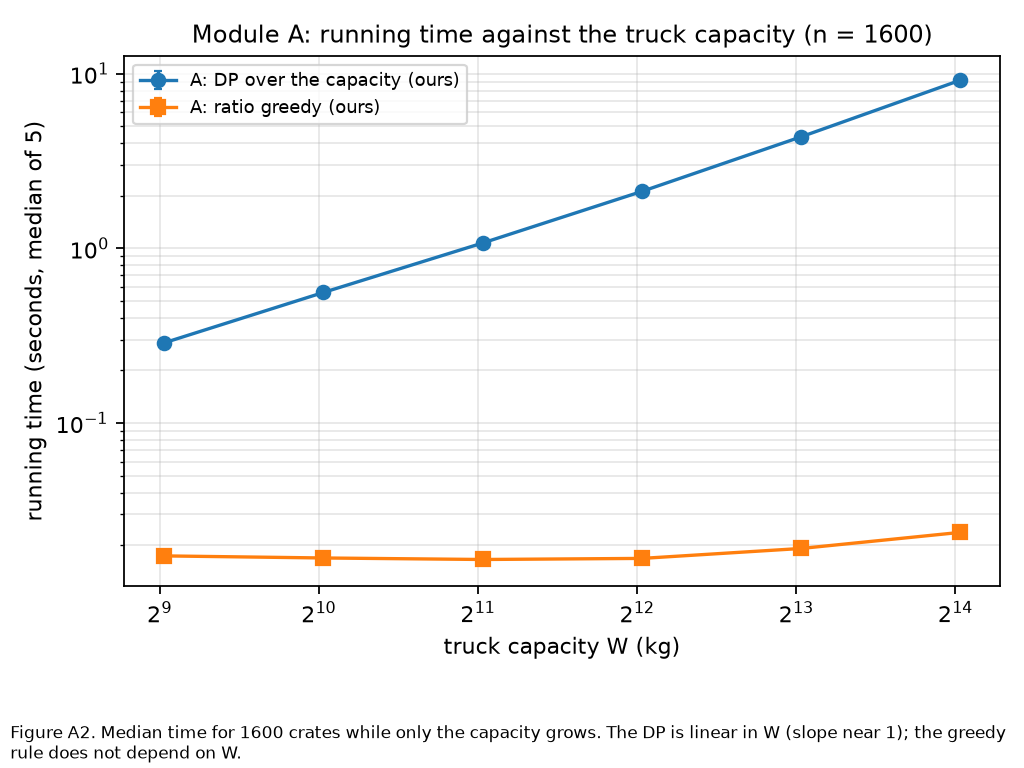
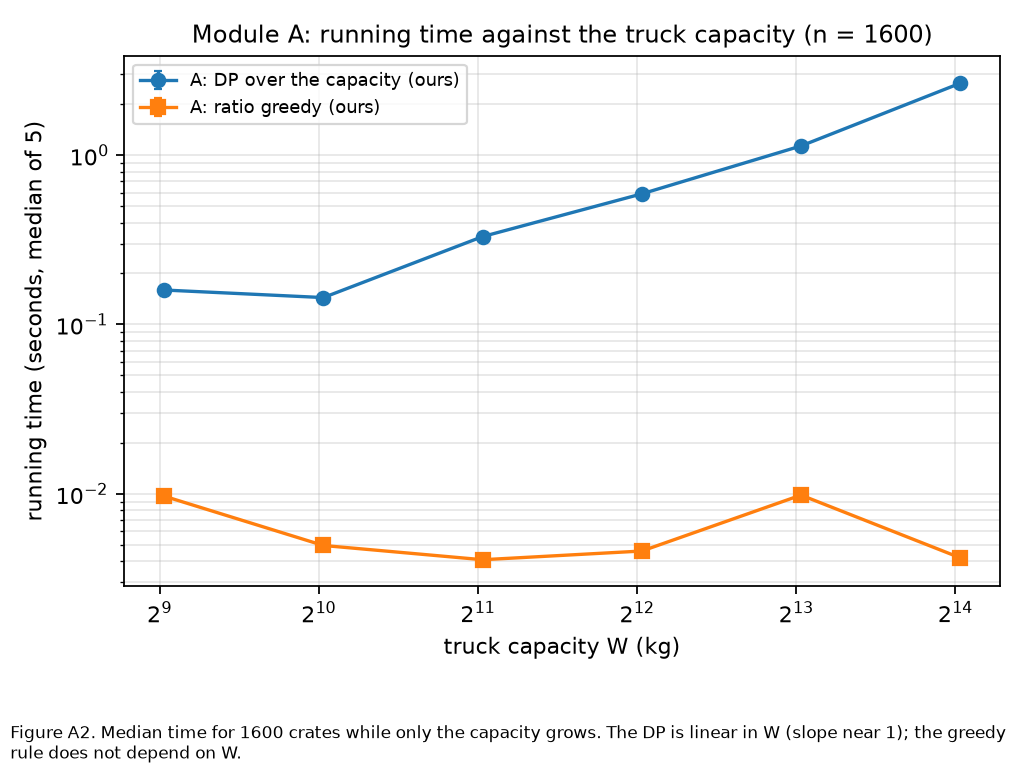
ayna: final updates

diff --git a/prediction_log.md b/prediction_log.md
@@ -76,17 +76,17 @@ DP fills n x W cells. The DP wins on *value*: it is optimal, the greedy rule is 
 
 **After the run** (Ayna's laptop, on or before 2026-11-20; full table in `results/predictions-vs-measurements-AD.md`): 10 of 13 inside the tolerance, misses 1.1, 1.2 and 1.3.
 
-*A problem with the measurement itself, stated first.* The speed of the machine changed while round 1 was running. Time per DP cell: 200 ns (n = 200), 181, 145, 139 (n = 1600), then 253 (n = 3200, where the IQR is 8.8 s, 80 % of the median, so the speed changed during the 5 timed runs) and 398 ns (n = 6400);
-in the W sweep, which ran afterwards on the same 1600 crates, 317 to 350 ns per cell. The greedy rule on the same 1600 crates took 7.6 ms in `A-scale-n` and 17 to 24 ms in `A-scale-W`. The operation counts are exact and did not change, so they are the reliable part of this round.
-I did not establish the cause. Possible causes: laptop power or heat management, other programs running, or Windows moving the run between fast and slow cores of this hybrid Intel CPU. A repeat with the charger connected and the power mode on best performance would tell.
-- **1.1 (miss, slope 2.26 +- 0.36, limit 2.25).** The interval contains my 2.0, so this is a borderline miss. Two causes: W per crate is not constant (3.4, 3.4, 2.9, 4.2, 4.2, 3.9 kg per crate for the six sizes, because the joined tier L cases differ), so the counted cells have slope 2.08 +- 0.12, not 2.0;
-  and the drift above added to the time of the large sizes. Time against cells has slope 1.09 +- 0.16, so the counted operations still explain the time.
-- **1.2 (miss, greedy slope 1.44, range 0.9 to 1.3).** The greedy operations have slope 1.150 +- 0.016, as predicted. The times at n = 3200 (45 ms) and n = 6400 (93 ms) are 6 and 12 times the time at n = 1600 while the operations are 2.2 and 4.8 times larger: the same drift.
-- **1.3 (miss, 64.2 s against 14 s).** I took 100 ns per cell from a smoke run on a cloud machine, where the full round later gave 19.0 s. Here a cell cost 398 ns at n = 6400 (139 ns at n = 1600), and the cell count was 161 million, not my 140 million.
-  The lesson: a time constant measured on one machine does not carry over to another; the cell count (a prediction I made about counts) was close.
-- **1.4 (hit, 689 against 450).** A hit with a wide tolerance; I would not read much into it.
-- **1.5, 1.6, 1.7, 1.8, 1.9** hit. 1.8: DP slope in W is 0.995 +- 0.037, clean because the W sweep ran at an almost constant speed. 1.7: greedy memory is 102 bytes per crate against 80 predicted (I counted too few lists of n references; not profiled further).
-  1.9 is a hit only because of the tolerance: the greedy time has slope 0.08 with R^2 = 0.57 (the operation count is exactly constant), which says "no clear dependence on W" and nothing more.
+*What changed between the two runs.* In the first run on this laptop the speed changed while the round was running: time per DP cell was 200, 181, 145, 139 ns for n = 200 to 1600, then 253 ns and 398 ns, with an IQR of 80 % of the median at n = 3200, so 1.1, 1.2 and 1.3 all missed.
+I did not establish the cause (laptop power or heat management, other programs, or Windows moving the run between fast and slow cores of this hybrid Intel CPU). After connecting the charger and setting the power mode to best performance, the repeat gave 94.5, 88.8, 86.6, 83.3 and 83.8 ns per cell for n = 200 to 3200: the speed is now almost constant.
+That is evidence for a power or heat effect, not proof; I changed two things at once (charger and power mode) and did not test them separately. One point is still disturbed: n = 6400 cost 194 ns per cell with an IQR of 8.8 s (28 % of the median), so the speed changed again during that longest run. In the W sweep the first point (W = 522, right after the 6400 run) cost 195 ns per cell, the other five 85 to 99 ns.
+The operation counts are exact and identical in both runs.
+- **1.1 (hit now, slope 2.215 +- 0.284, range 1.75 to 2.25; first run 2.26 +- 0.36).** The slope is inflated by the 6400 point. Without it, the five sizes 200 to 3200 give 2.05 +- 0.21. The counted cells have slope 2.08 +- 0.12, not 2.0, because W per crate is not constant (3.4, 3.4, 2.9, 4.2, 4.2, 3.9 kg per crate for the six sizes, since the joined tier L cases differ): a real, small modelling error in my prediction of the operation count. Time against cells has slope 1.07 +- 0.14, so the counted operations explain the time.
+- **1.2 (hit now, greedy slope 1.219, range 0.9 to 1.3; first run 1.44).** The greedy operations have slope 1.150 +- 0.016, as predicted. The interval of the time slope is +- 0.28, so this is a weak confirmation.
+- **1.3 (still a miss, 31.3 s against 14 s, range 9 to 21).** The cell count was 161 million, not my 140 million. Only the 6400 point is out of line: at the 84 ns per cell of n = 1600 and 3200, 161 million cells would take about 13.5 s, which is what I predicted. That is arithmetic, not a measurement; the measured value is 31.3 s and it stays a miss.
+  The lesson: a long run on a laptop can change speed in the middle, and one timing of a 30 s run is not enough to separate this from the algorithm. In the first run I also used a constant (100 ns per cell) from a cloud machine; on this laptop in the good state it is 85 ns, close.
+- **1.4 (hit, 778 against 450).** A hit with a wide tolerance; I would not read much into it.
+- **1.5, 1.6, 1.7, 1.8, 1.9** hit. 1.8: DP slope in W is 0.858 +- 0.267 (first run 0.995 +- 0.037); the cells have slope 1.005, and the lower time slope comes from the first point (W = 522, 195 ns per cell), which is out of line. 1.7: greedy memory is 102 bytes per crate against 80 predicted (I counted too few lists of n references; not profiled further).
+  1.9 is a hit only because of the tolerance: the greedy time has slope -0.08 +- 0.43 with R^2 = 0.07 (the operation count is exactly constant; the times jump between 4 and 10 ms), which says "no clear dependence on W" and nothing more.
 - **1.10 to 1.13 (quality, machine independent, identical to the first run on the cloud machine):** greedy is not optimal in 65 % of tier S cases (55 % predicted), mean greedy/DP is 0.9985 on tiers M and L, 0.561 on trap 47, and the DP equals the claim in 20 of 20 tier S cases.
   A surprise: a few tier S cases of other groups give greedy/DP of only 0.58, nearly as bad as the trap cases (Figure A4).
 
@@ -115,8 +115,8 @@ DP costs a fixed overhead per crate (list slicing) and the table has only about 
 multiple of the sort-based greedy rule (2.3). For n = 8 both finish in tens of microseconds and the exponential
 has not taken off yet, so the crossover sits at the bottom of the range (2.4).
 
-**After the run** (Ayna's laptop): 3 of 4 inside the tolerance, miss 2.2.
-- **2.2 (miss).** Brute force at n = 20 took 0.585 s against 0.17 s predicted; the first run on the cloud machine gave 0.165 s. The factor 3.6 is a machine and speed-state difference, not an error in the 2^n argument: 2.1 hit (base 2.02, interval 1.94 to 2.11) and exactly 2^n subsets were counted at every size.
+**After the run** (Ayna's laptop, first slower run; round 2 has not been repeated yet): 3 of 4 inside the tolerance, miss 2.2.
+- **2.2 (miss).** Brute force at n = 20 took 0.585 s against 0.17 s predicted; the first run on the cloud machine gave 0.165 s. The factor 3.6 is a machine and speed-state difference, not an error in the 2^n argument (in this round the DP costs about 500 ns per cell, against about 85 ns in the repeated round 1, so the round ran in the slow state): 2.1 hit (base 2.02, interval 1.94 to 2.11) and exactly 2^n subsets were counted at every size.
 - 2.3 hit (DP / greedy 3.9 on average). 2.4 hit (n = 8: DP 89 us, brute force 115 us, ratio 1.29); this prediction was partly informed by the smoke run and I did not test sizes below 8.
 - At n = 20 the DP is 878 times faster than brute force.
 
@@ -165,13 +165,13 @@ about equal. They give the same release order, so there is no difference in *out
 - At m = 250 the backlog is under 50 and a scan of 40 entries costs about as much as the overhead of heap
   operations (3.6).
 
-**After the run** (Ayna's laptop): 9 of 11 inside the tolerance, misses 3.5 and 3.8.
+**After the run** (Ayna's laptop, repeated on 2026-11-20 with the charger connected and power mode best performance): 10 of 11 inside the tolerance, miss 3.8.
 - **3.8 (miss, 1.28 against a limit of 1.25).** Operation counts do not depend on the machine, so this is a real modelling error. I predicted that operations divided by (m log2 m) stay constant. They grow from 2.47 at m = 250 to 3.17 at m = 64000.
   My model forgot that the backlog starts at zero and then grows. A pop costs about log2 of the current backlog, so the average over the run is about log2(0.33 m) - 1.4 = log2 m - 3.0 rather than log2 m. The ratio (log2 m - 3.0) / log2 m is 0.62 at m = 250 and 0.81 at m = 64000, a growth by a factor of 1.31; measured 1.28. So the heap is m log m with a negative constant term.
-- **3.5 (miss, heap at m = 64000 took 1.04 s against 0.5 s).** The first run on the cloud machine gave 0.40 s. On the laptop the heap time jumps from 0.108 s (m = 16000) to 0.481 s (m = 32000), 4.5 times for twice the size while the operations grow 2.1 times: the speed change again. As a result the scan/heap time ratio is 1.5, 1.6, 3.0, 4.8, 9.5, 17, 63, 57, 50 for the nine sizes and is not monotone at the top; do not read the 63 as a trend.
-- **3.1 (hit but inflated).** The heap slope is 1.26 +- 0.11 (limit 1.3); the operations have slope 1.164 +- 0.028, which is the m log m shape I expected. **3.2:** scan slope 2.03 +- 0.16, comparisons 1.99. **3.3:** 10.7 million comparisons at m = 8000 (10.9 predicted).
-- **3.4 (hit, 51.9 s against 51).** A lucky hit: my 70 ns per comparison came from the smoke run, here a comparison cost 76 ns, and the first cloud run gave 51 ns. The IQR of the scan at m = 32000 is 12.4 s (45 % of the median).
-- 3.6 hit (1.5), 3.7 hit (backlog 0.331 m), 3.9 hit (185 bytes per alarm; heap and scan memory differ by under 0.1 %), 3.10 hit (the mean wait of all alarms is identical under both orders in all 62 cases), 3.11 hit with a 81 % error (ratio 429 against 80 predicted; on tier L the priority 9 and 10 alarms wait 1.5 ticks under the urgency order and 639 under first-come-first-served).
+- **3.5 (hit now, heap at m = 64000 took 0.265 s, range 0.25 to 1; first run 1.04 s).** In the first run the heap time jumped 4.5 times for a doubling of m (speed change). In the repeat the heap times are smooth except at m = 4000 (24 ms, with an IQR of 6.5 ms; m = 8000 took 25 ms), which I read as one disturbed measurement, not as algorithm behaviour. The scan/heap time ratio for the nine sizes is 1.2, 1.7, 2.7, 4.7, 4.1, 16, 29, 57, 113; the dip at 4000 comes from that heap time. The ratio grows with m, as the shapes m log m and m^2 predict.
+- **3.1 (hit).** The heap slope is 1.124 +- 0.112 (first run 1.26); the operations have slope 1.164 +- 0.028, which is the m log m shape I expected. **3.2:** scan slope 1.961 +- 0.054, comparisons 1.99. **3.3:** 10.7 million comparisons at m = 8000 (10.9 predicted).
+- **3.4 (hit, 29.8 s against 51, range 25 to 100).** A hit by tolerance, with a relative error of 71 %: I used 70 ns per comparison, and the repeated round gives 37 to 44 ns (the first laptop run gave 76 ns, the first cloud run 51 ns). The scan times now follow the comparison counts closely (time against operations has slope 0.985 +- 0.025).
+- 3.6 hit (1.17), 3.7 hit (backlog 0.331 m), 3.9 hit (185 bytes per alarm; heap and scan memory differ by under 0.1 %), 3.10 hit (the mean wait of all alarms is identical under both orders in all 62 cases), 3.11 hit with a 81 % error (ratio 429 against 80 predicted; on tier L the priority 9 and 10 alarms wait 1.5 ticks under the urgency order and 639 under first-come-first-served).
 
 ---
 
@@ -192,18 +192,20 @@ about equal. They give the same release order, so there is no difference in *out
 **Reasoning.** Quadratic growth from 51 s at m = 64000 gives 51 x 16 = 816 s at 4 times the size; with the slope a bit below 2, 670 s
 (4.2). That is above 300 s, hence DNF (4.1). The heap is about 5 times 0.5 s with the logarithmic factor (4.3).
 
-**After the run** (Ayna's laptop): 2 of 3 inside the tolerance, miss 4.2.
-- 4.1 hit: the scan at m = 256000 passed 300 s and is recorded as DNF. 4.3 hit: the heap took 2.40 s (2.5 predicted).
-- **4.2 (miss, extrapolated 1189 s against 670 s).** The extrapolation uses the fitted line through nine sizes including the disturbed ones; plain quadratic growth from the last measured size (51.9 s at m = 64000, times 16) gives about 830 s. Both are far above 300 s, so the DNF conclusion does not depend on it.
+**After the run** (Ayna's laptop; round 4 has not been repeated yet and comes from the first, slower run, except that the extrapolation in 4.2 now uses the repeated round 3): 2 of 3 inside the tolerance, miss 4.2.
+- 4.1 hit: the scan at m = 256000 passed 300 s and is recorded as DNF. 4.3 hit: the heap took 2.40 s (2.5 predicted). Caution: this number comes from the slower run. The repeated round 3 gives 0.265 s at m = 64000, and 2.40 s at 256000 alarms would be 9 times that for 4 times the alarms, so a repeat of round 4 is likely to give about 1.2 s and change this hit into a miss.
+- **4.2 (miss, extrapolated 390 s against 670 s, range 400 to 1100).** The fitted line through the nine sizes of the repeated round 3 gives 390 s; plain quadratic growth from the last measured size (29.8 s at m = 64000, times 16) gives about 477 s. The miss is small (the range starts at 400) and comes from my constant (70 ns per comparison, measured here: about 40 ns). Both estimates are above 300 s, so the DNF conclusion holds, but it is close enough that it should be confirmed by the repeated round 4 (the DNF row itself is a measurement: the scan passed 300 s).
   The largest size that finished for the scan is m = 64000. The extrapolated figure is an estimate, not a measurement.
 
 ---
 
 ## Summary after all rounds
 
-31 numerical predictions on the laptop run: 24 inside the tolerance, 7 misses (1.1, 1.2, 1.3, 2.2, 3.5, 3.8, 4.2).
-- **Real modelling errors:** 3.8 (I forgot that the backlog starts at zero, so the heap work per alarm is log2 m - 3, not log2 m) and, in part, 1.1 (the capacity per crate of the pools is not constant, so the cell count grows with slope 2.08, not 2.0).
-- **Caused by speed and constants of the machine:** 1.2, 1.3, 2.2, 3.5 and 4.2. The speed of the laptop changed during round 1 and again in round 3 (time per DP cell 139 ns to 398 ns, heap time jumping 4.5 times for a doubling), and the time constants I used (100 ns per cell, 4 microseconds per alarm) came from a cloud machine. Predictions of counts, memory and quality
-  (1.5, 1.6, 1.8, 2.1, 3.3, 3.7, 3.10, 1.10 to 1.13) were close or exact on both machines.
-- **Weak hits:** some tolerances (1.4, 1.9, 3.4, 3.11) were wide enough to hit without much understanding; 3.4 is luck.
-- **What I would do differently:** predict ratios and operation counts, and calibrate any absolute time on the same machine and in the same power mode before predicting it; run timing rounds with the laptop connected to power.
+31 numerical predictions, with rounds 1 and 3 repeated on 2026-11-20 (charger connected, best performance) and rounds 2 and 4 from the first laptop run: 27 inside the tolerance, 4 misses (1.3, 2.2, 3.8, 4.2).
+In the first laptop run alone it was 24 hits and 7 misses (1.1, 1.2, 1.3, 2.2, 3.5, 3.8, 4.2).
+- **Real modelling errors:** 3.8 (I forgot that the backlog starts at zero, so the heap work per alarm is log2 m - 3, not log2 m) and, in a small way, 1.1 (the capacity per crate of the pools is not constant, so the cell count grows with slope 2.08, not 2.0; the hit there is by tolerance).
+- **Caused by speed and constants of the machine:** 1.3 (the n = 6400 run changed speed during the run), 2.2 (round 2 ran in the slow state), 4.2 (my 70 ns per comparison against about 40 ns measured). Moving from the first to the repeated run turned 1.1, 1.2 and 3.5 into hits, which supports the explanation by machine speed. Predictions of counts, memory and quality
+  (1.5, 1.6, 2.1, 3.3, 3.7, 3.10, 1.10 to 1.13) were close or exact in every run on both machines.
+- **Weak hits:** some tolerances (1.4, 1.9, 3.4, 3.11) were wide enough to hit without much understanding; 3.4 is a hit with a relative error of 71 %.
+- **Still open:** rounds 2 and 4 should be repeated in the same power state as rounds 1 and 3; 2.2 and 4.3 are the two predictions that this is likely to change.
+- **What I would do differently:** predict ratios and operation counts, and calibrate any absolute time on the same machine and in the same power mode before predicting it; run every timing round with the laptop connected to power in best performance mode, and run the longest sizes more than once.

diff --git a/README.md b/README.md
@@ -121,7 +121,8 @@ Preprocessing is counted separately: module D first checks in one pass that tick
 - A run that passes 300 s is a DNF: the algorithm receives a deadline and raises `TimeBudgetExceeded`, and the row gets status DNF.
 - Growth claims use a least-squares fit on at least 5 sizes (log-log for polynomial, semi-log for exponential) with the 95 % interval from the t distribution, R^2 and, in `results/predictions-vs-measurements-AD.md`, the relative error between prediction and measurement.
 - **Hardware and software of the numbers in `results/`:** `results/environment.json`: Windows 11, an Intel laptop CPU (family 6, model 154, 12 logical processors), CPython 3.13.7, one thread, 5 timed runs after 1 warm-up.
-  The numbers were measured on this one laptop. **The speed of the laptop changed during the experiments** (time per DP cell was 139 ns for 1600 crates in one experiment and 317 to 398 ns later, with a very wide IQR at 3200 crates), so absolute times and some fitted slopes of
+  The numbers were measured on this one laptop. **The speed of the laptop changed during the first full run** (time per DP cell between 139 and 398 ns). Rounds 1 and 3 were therefore repeated with the charger connected and the power mode on best performance (about 85 ns per cell for 200 to 3200 crates);
+  rounds 2 and 4 come from the first run and have not been repeated. One long run (6400 crates) still changed speed during its five timed runs (IQR 8.8 s). Absolute times and some fitted slopes of
   times are distorted, while operation counts, memory and quality numbers are exact and repeatable. Details and the list of affected predictions are in `prediction_log.md`. Another machine gives other absolute times.
 - Prediction log: `prediction_log.md` (entries written and committed before each round; "After the run" notes written afterwards).
 
@@ -131,12 +132,12 @@ Full tables: `results/comparison-AD.md`; fits: `results/fits-AD.md`; plots with 
 
 | Module | Experiment | Result |
 |---|---|---|
-| A | A-scale-n, 200 to 6400 crates | counted cells grow with slope 2.08 +- 0.12; DP time slope 2.26 +- 0.36 (inflated by the change of machine speed); 64.2 s at 6400 crates (161 million cells); greedy 93 ms; time against cells has slope 1.09 +- 0.16 |
-| A | A-scale-W, n = 1600 | DP slope 0.995 +- 0.037 in W (cells: 1.005); greedy operation count exactly independent of W (time slope 0.08, R^2 0.57: no clear trend) |
-| A | A-small-n, 8 to 20 crates | brute force doubles per crate (base 2.02, interval 1.94 to 2.11), DP is 878 times faster than brute force at n = 20 (0.67 ms against 585 ms) |
+| A | A-scale-n, 200 to 6400 crates | counted cells grow with slope 2.08 +- 0.12; DP time slope 2.22 +- 0.28 (2.05 +- 0.21 without the 6400 point, whose run changed speed); about 85 ns per cell for 200 to 3200 crates; 31.3 s at 6400 crates (161 million cells; IQR 8.8 s); greedy 40 ms; time against cells has slope 1.07 +- 0.14 |
+| A | A-scale-W, n = 1600 | DP time slope 0.86 +- 0.27 in W (cells: 1.005; the first point, W = 522, is out of line at 195 ns per cell, the others cost 85 to 99 ns); greedy operation count exactly independent of W (time slope -0.08, R^2 0.07: no clear trend) |
+| A | A-small-n, 8 to 20 crates | brute force doubles per crate (base 2.02, interval 1.94 to 2.11), DP is 878 times faster than brute force at n = 20 (0.67 ms against 585 ms; this round is from the first, slower run) |
 | A | quality | DP equals the claim in 20 of 20 tier S cases; greedy is optimal in 7 of 20 tier S and 7 of 20 tier M cases, and loses 44 % on the trap-47 cases (mean greedy / DP 0.56) but only 0.2 % on tier M and 0.01 % on tier L |
-| D | D-scale-m, 250 to 64000 alarms | heap slope 1.26 +- 0.11 (operations: 1.16), scan slope 2.03 +- 0.16 (comparisons: 1.99); scan / heap time 1.5 at 250, 63 at 16000, 50 at 64000 |
-| D | D-dnf, 256000 alarms | heap 2.40 s; scan DNF (more than 300 s; plain quadratic growth from 51.9 s at 64000 alarms gives about 830 s, the fitted line about 1190 s) |
+| D | D-scale-m, 250 to 64000 alarms | heap slope 1.12 +- 0.11 (operations: 1.16), scan slope 1.96 +- 0.05 (comparisons: 1.99); scan / heap time 1.2 at 250, 29 at 16000, 113 at 64000 (heap 0.26 s, scan 29.8 s) |
+| D | D-dnf, 256000 alarms | scan DNF (more than 300 s; plain quadratic growth from 29.8 s at 64000 alarms gives about 480 s, the fitted line about 390 s); heap 2.40 s, but this round is from the first, slower run and a repeat is expected to give about 1.2 s |
 | D | quality | the mean wait of all alarms is the same under urgency order and first-come-first-served; priority 9 and 10 alarms wait 1.5 ticks (urgency) against 639 (FIFO) on tier L |
 
 ## 9. Recommendation for the lead designer (Problem N)
@@ -146,17 +147,17 @@ Full tables: `results/comparison-AD.md`; fits: `results/fits-AD.md`; plots with 
 - **Ship:** the dynamic programme over the capacity.
 - **Evidence (experiments A-scale-n and the quality table):** it reproduces the exhaustive-search optimum in 20 of 20 tier S cases; the greedy rule loses 44 % on the trap-47 crates
   (greedy / DP between 0.55 and 0.59 in 10 of 10 cases) and up to 42 % in some tier S cases. Cost for the sizes of the data: a tier L case (up to 1500 crates, W up to about 10,000) is at most about 15 million cells,
-  roughly 2 to 5 s here (1.5 s measured for 10.6 million cells: 1600 crates, W = 6637; the later runs on this laptop cost two to three times more per cell).
-- **Clash between theory and practice, and what we chose:** on tiers M and L the greedy rule is within 0.2 % and 0.01 % of the optimum in 0.1 % to 0.6 % of the time (sizes 1600 to 6400 crates). We still ship the DP because a daily
+  roughly 1.3 s here (0.88 s measured for 10.6 million cells: 1600 crates, W = 6637, at about 83 ns per cell).
+- **Clash between theory and practice, and what we chose:** on tiers M and L the greedy rule is within 0.2 % and 0.01 % of the optimum in 0.1 % to 0.5 % of the time (sizes 1600 to 6400 crates). We still ship the DP because a daily
   truck load is decided once, the DP costs seconds, and a missed 40 % on a hostile case (trap 47) is not acceptable for lives; the greedy rule is the fallback when the DP is too slow.
-- **Assumption:** weights are small whole numbers and the capacity is moderate, so that `n * W` stays below about 5 x 10^7 cells (about 7 to 20 s here, depending on the speed of the machine at that moment) and the `n * W` byte table fits in memory (about 160 MB at 6400 crates and W = 25,000, computed as n * W, not measured).
+- **Assumption:** weights are small whole numbers and the capacity is moderate, so that `n * W` stays below about 5 x 10^7 cells (about 4 to 10 s here at 85 to 190 ns per cell, depending on the speed of the machine at that moment) and the `n * W` byte table fits in memory (about 160 MB at 6400 crates and W = 25,000, computed as n * W, not measured).
 - **It would be wrong when** the capacity is measured in a much finer unit (grams instead of kilograms multiplies W by 1000) or the fleet is much larger. **Measurement that tells:** compute `items * min(W, total weight)` before the run;
   above about 5 x 10^7 (or when the table would not fit in memory), switch to the greedy rule and report its gap, or implement branch and bound.
 
 ### Module D - emergency queue
 
 - **Ship:** the binary heap.
-- **Evidence (experiments D-scale-m and D-dnf):** the heap is 50 times faster than the scan at 64,000 alarms (1.04 s against 51.9 s) and finishes 256,000 alarms in 2.4 s, where the scan does not finish in 300 s.
+- **Evidence (experiments D-scale-m and D-dnf):** the heap is 113 times faster than the scan at 64,000 alarms (0.26 s against 29.8 s) and finishes 256,000 alarms in 2.4 s (first, slower run), where the scan does not finish in 300 s.
   Under the urgency order, alarms of priority 9 and 10 wait 1.5 ticks on tier L, against 639 under first-come-first-served, with the same mean wait for all alarms.
 - **Assumption:** more alarms arrive than can be answered (1.2 to 1.8 per tick against one release per tick), so the backlog grows with m (a third of m in our data) and the scan has to look at thousands of alarms per release.
 - **It would be wrong when** the alarm rate stays below one per tick: then the backlog stays small and a scan of a few dozen alarms is as fast as the heap (they were close at 250 alarms: ratio 1.5). With only ten priority levels a
@@ -176,8 +177,8 @@ Full tables: `results/comparison-AD.md`; fits: `results/fits-AD.md`; plots with 
 
 ## 10. Known limitations
 
-- Pure Python: a DP cell costs 139 to 398 ns on our laptop, so module A is slow compared with compiled code; sizes beyond 6400 crates were not run.
-- **Timing noise.** The laptop changed speed during the run of round 1 (see section 7), so timing-based statements (slopes of time, absolute times, the scan-to-heap ratio between 16,000 and 64,000 alarms) are less reliable than the operation counts. A repeat with the charger connected and the power mode set to best performance is the way to improve them.
+- Pure Python: a DP cell costs about 85 ns on our laptop in the good state (up to 400 ns in the disturbed first run), so module A is slow compared with compiled code; sizes beyond 6400 crates were not run.
+- **Timing noise.** The first full run changed speed on the laptop; rounds 1 and 3 were repeated with the charger connected and best performance, and are mostly clean (about 85 ns per DP cell). The 6400-crate run (IQR 8.8 s) and the W = 522 point are still disturbed, and rounds 2 and 4 (brute force at 8 to 20 crates, the 256,000-alarm run) come from the first, slower run, so their absolute times are less reliable than the operation counts, memory and quality numbers.
 - The DP keeps one byte per (crate, capacity) cell; memory was not measured above 8 s per run (n = 1600 is the largest size with a measurement: 1.08 times `n * W` bytes).
 - Module D assumes one release per tick and no preemption; values of day events enter only through the data given to the module.
 - The tie rule among equal-value loads of module A is documented but arbitrary, so another correct implementation may return a different set with the same value.

diff --git a/results/comparison-AD.md b/results/comparison-AD.md
@@ -7,23 +7,23 @@ Time = median of 5 runs after one warm-up, with the interquartile range (IQR). o
 
 | n | dp time (IQR) | dp ops | dp mem | greedy time (IQR) | greedy ops | greedy mem | greedy / dp time |
 |---|---|---|---|---|---|---|---|
-| 200 | 26.91 ms (4.48 ms) | 134,258 | 221,805 | 773.1 us (502.4 us) | 2,921 | 10,528 | 0.0287 |
-| 400 | 98.04 ms (9.54 ms) | 541,281 | 716,727 | 1.58 ms (172.8 us) | 6,643 | 41,248 | 0.0161 |
-| 800 | 270.24 ms (3.07 ms) | 1,867,539 | 2,175,684 | 3.13 ms (235.8 us) | 14,879 | 41,248 | 0.0116 |
-| 1,600 | 1.48 s (12.49 ms) | 10,604,071 | 11,411,664 | 7.56 ms (769.1 us) | 32,979 | 164,128 | 0.00511 |
-| 3,200 | 11.02 s (8.76 s) | 43,515,074 | - | 45.32 ms (11.63 ms) | 72,399 | 164,128 | 0.00411 |
-| 6,400 | 64.21 s (1.07 s) | 161,254,146 | - | 93.24 ms (6.23 ms) | 157,465 | 655,648 | 0.00145 |
+| 200 | 12.69 ms (223.3 us) | 134,258 | 221,805 | 452.7 us (80.1 us) | 2,921 | 10,528 | 0.0357 |
+| 400 | 48.07 ms (1.43 ms) | 541,281 | 716,727 | 931.8 us (108.0 us) | 6,643 | 41,248 | 0.0194 |
+| 800 | 161.79 ms (9.24 ms) | 1,867,539 | 2,175,684 | 3.14 ms (526.4 us) | 14,879 | 41,248 | 0.0194 |
+| 1,600 | 882.81 ms (48.03 ms) | 10,604,071 | 11,411,664 | 4.51 ms (353.8 us) | 32,979 | 164,128 | 0.0051 |
+| 3,200 | 3.65 s (20.73 ms) | 43,515,074 | 45,195,686 | 8.89 ms (313.3 us) | 72,399 | 164,128 | 0.00244 |
+| 6,400 | 31.28 s (8.79 s) | 161,254,146 | - | 40.22 ms (1.51 ms) | 157,465 | 655,648 | 0.00129 |
 
 ## A: growth in W (n fixed)
 
 | W | dp time (IQR) | dp ops | dp mem | greedy time (IQR) | greedy ops | greedy mem | greedy / dp time |
 |---|---|---|---|---|---|---|---|
-| 522 | 287.46 ms (7.16 ms) | 820,071 | 1,008,020 | 17.35 ms (2.07 ms) | 32,979 | 164,128 | 0.0603 |
-| 1,045 | 558.56 ms (11.17 ms) | 1,656,871 | 1,896,290 | 16.88 ms (1.39 ms) | 32,979 | 164,128 | 0.0302 |
-| 2,091 | 1.07 s (23.19 ms) | 3,330,471 | 3,675,422 | 16.54 ms (1.04 ms) | 32,979 | 164,128 | 0.0154 |
-| 4,182 | 2.12 s (36.93 ms) | 6,676,071 | 7,236,156 | 16.78 ms (461.7 us) | 32,979 | 164,128 | 0.00793 |
-| 8,364 | 4.34 s (428.06 ms) | 13,367,271 | 14,335,236 | 19.13 ms (428.0 us) | 32,979 | 164,128 | 0.0044 |
-| 16,729 | 9.16 s (60.23 ms) | 26,751,271 | - | 23.65 ms (3.28 ms) | 32,979 | 164,128 | 0.00258 |
+| 522 | 159.75 ms (7.72 ms) | 820,071 | 1,008,020 | 9.68 ms (1.20 ms) | 32,979 | 164,128 | 0.0606 |
+| 1,045 | 144.14 ms (8.33 ms) | 1,656,871 | 1,896,290 | 4.95 ms (512.0 us) | 32,979 | 164,128 | 0.0343 |
+| 2,091 | 330.46 ms (14.96 ms) | 3,330,471 | 3,675,422 | 4.08 ms (238.1 us) | 32,979 | 164,128 | 0.0123 |
+| 4,182 | 590.90 ms (53.98 ms) | 6,676,071 | 7,236,156 | 4.59 ms (209.6 us) | 32,979 | 164,128 | 0.00777 |
+| 8,364 | 1.13 s (165.01 ms) | 13,367,271 | 14,335,236 | 9.82 ms (1.51 ms) | 32,979 | 164,128 | 0.00866 |
+| 16,729 | 2.66 s (239.58 ms) | 26,751,271 | 28,563,200 | 4.19 ms (60.1 us) | 32,979 | 164,128 | 0.00157 |
 
 ## A: small inputs
 
@@ -39,15 +39,15 @@ Time = median of 5 runs after one warm-up, with the interquartile range (IQR). o
 
 | m | heap time (IQR) | heap ops | heap mem | scan time (IQR) | scan ops | scan mem | scan / heap time |
 |---|---|---|---|---|---|---|---|
-| 250 | 857.8 us (74.1 us) | 4,927 | 38,468 | 1.30 ms (245.5 us) | 10,958 | 38,412 | 1.52 |
-| 500 | 2.24 ms (148.3 us) | 11,989 | 85,288 | 3.58 ms (624.7 us) | 42,750 | 85,288 | 1.6 |
-| 1,000 | 4.50 ms (372.9 us) | 28,046 | 182,124 | 13.59 ms (1.31 ms) | 168,833 | 182,124 | 3.02 |
-| 2,000 | 10.41 ms (993.5 us) | 64,560 | 372,004 | 49.86 ms (391.1 us) | 671,000 | 372,004 | 4.79 |
-| 4,000 | 19.98 ms (3.27 ms) | 145,693 | 756,620 | 189.36 ms (8.06 ms) | 2,675,914 | 756,588 | 9.48 |
-| 8,000 | 47.98 ms (7.26 ms) | 326,229 | 1,480,132 | 804.68 ms (38.05 ms) | 10,686,639 | 1,480,068 | 16.8 |
-| 16,000 | 107.57 ms (5.24 ms) | 698,004 | 2,886,444 | 6.80 s (115.32 ms) | 42,623,454 | 2,886,476 | 63.3 |
-| 32,000 | 481.18 ms (3.72 ms) | 1,467,092 | 5,871,044 | 27.60 s (12.43 s) | 171,275,244 | - | 57.4 |
-| 64,000 | 1.04 s (7.38 ms) | 3,234,885 | 11,553,740 | 51.93 s (1.40 s) | 679,960,508 | - | 50 |
+| 250 | 513.4 us (35.5 us) | 4,927 | 38,468 | 599.6 us (88.0 us) | 10,958 | 38,412 | 1.17 |
+| 500 | 1.14 ms (40.5 us) | 11,989 | 85,288 | 1.90 ms (66.2 us) | 42,750 | 85,288 | 1.67 |
+| 1,000 | 2.50 ms (137.7 us) | 28,046 | 182,124 | 6.77 ms (423.4 us) | 168,833 | 182,124 | 2.71 |
+| 2,000 | 5.59 ms (313.0 us) | 64,560 | 372,004 | 26.16 ms (1.19 ms) | 671,000 | 372,004 | 4.68 |
+| 4,000 | 24.02 ms (6.50 ms) | 145,693 | 756,620 | 98.03 ms (1.70 ms) | 2,675,914 | 756,588 | 4.08 |
+| 8,000 | 25.34 ms (1.04 ms) | 326,229 | 1,480,132 | 410.05 ms (12.85 ms) | 10,686,639 | 1,480,068 | 16.2 |
+| 16,000 | 57.81 ms (1.07 ms) | 698,004 | 2,886,444 | 1.67 s (27.38 ms) | 42,623,454 | 2,886,476 | 28.8 |
+| 32,000 | 120.42 ms (3.71 ms) | 1,467,092 | 5,871,044 | 6.82 s (51.35 ms) | 171,275,244 | 5,871,012 | 56.6 |
+| 64,000 | 264.92 ms (14.94 ms) | 3,234,885 | 11,553,740 | 29.84 s (33.83 ms) | 679,960,508 | - | 113 |
 
 ## D: the 5 minute rule
 

diff --git a/results/predictions-vs-measurements-AD.md b/results/predictions-vs-measurements-AD.md
@@ -1,14 +1,14 @@
 | id | what | predicted (range) | measured | result | rel. error |
 |---|---|---|---|---|---|
-| 1.1 | A dp: log-log slope of time against n (W grows with n) | 2 (1.75 to 2.25) | 2.257 | MISS | 11 % |
-| 1.2 | A greedy: log-log slope of time against n | 1.1 (0.9 to 1.3) | 1.439 | MISS | 24 % |
-| 1.3 | A dp: time at n = 6400 (s) | 14 (9 to 21) | 64.21 | MISS | 78 % |
-| 1.4 | A dp time / greedy time at n = 6400 | 450 (200 to 1500) | 688.6 | HIT | 35 % |
+| 1.1 | A dp: log-log slope of time against n (W grows with n) | 2 (1.75 to 2.25) | 2.215 | HIT | 10 % |
+| 1.2 | A greedy: log-log slope of time against n | 1.1 (0.9 to 1.3) | 1.219 | HIT | 10 % |
+| 1.3 | A dp: time at n = 6400 (s) | 14 (9 to 21) | 31.28 | MISS | 55 % |
+| 1.4 | A dp time / greedy time at n = 6400 | 450 (200 to 1500) | 777.7 | HIT | 42 % |
 | 1.5 | A dp: smallest value over all sizes of cells / (n*W) | 0.985 (0.97 to 1) | 0.9857 | HIT | 0 % |
-| 1.6 | A dp: peak memory / (n*W) at the largest size with memory measured | 1.1 (1 to 1.3) | 1.075 | HIT | 2 % |
+| 1.6 | A dp: peak memory / (n*W) at the largest size with memory measured | 1.1 (1 to 1.3) | 1.038 | HIT | 6 % |
 | 1.7 | A greedy: peak memory per crate at n = 6400 (bytes) | 80 (40 to 120) | 102.4 | HIT | 22 % |
-| 1.8 | A dp: log-log slope of time against W at fixed n | 0.95 (0.8 to 1.1) | 0.9947 | HIT | 4 % |
-| 1.9 | A greedy: log-log slope of time against W at fixed n | 0 (-0.15 to 0.15) | 0.07989 | HIT | 100 % |
+| 1.8 | A dp: log-log slope of time against W at fixed n | 0.95 (0.8 to 1.1) | 0.8582 | HIT | 11 % |
+| 1.9 | A greedy: log-log slope of time against W at fixed n | 0 (-0.15 to 0.15) | -0.08328 | HIT | 100 % |
 | 1.10 | A tier S sample: share of cases where greedy is not optimal | 0.55 (0.3 to 0.8) | 0.65 | HIT | 15 % |
 | 1.11 | A tiers M and L samples: mean greedy / dp value | 0.997 (0.99 to 1) | 0.9985 | HIT | 0 % |
 | 1.12 | A trap-47 cases: mean greedy / dp value | 0.55 (0.45 to 0.65) | 0.5607 | HIT | 2 % |
@@ -17,17 +17,17 @@
 | 2.2 | A brute force: time at n = 20 (s) | 0.17 (0.1 to 0.3) | 0.5848 | MISS | 71 % |
 | 2.3 | A dp time / greedy time, mean over the five small sizes | 4 (2 to 8) | 3.862 | HIT | 4 % |
 | 2.4 | A smallest n at which dp is faster than brute force | 8 (8 to 11) | 8 | HIT | 0 % |
-| 3.1 | D heap: log-log slope of time against m | 1.1 (0.95 to 1.3) | 1.26 | HIT | 13 % |
-| 3.2 | D scan: log-log slope of time against m | 1.9 (1.7 to 2.1) | 2.031 | HIT | 6 % |
+| 3.1 | D heap: log-log slope of time against m | 1.1 (0.95 to 1.3) | 1.124 | HIT | 2 % |
+| 3.2 | D scan: log-log slope of time against m | 1.9 (1.7 to 2.1) | 1.961 | HIT | 3 % |
 | 3.3 | D scan: key comparisons at m = 8000 | 1.09e+07 (6e+06 to 1.6e+07) | 1.067e+07 | HIT | 2 % |
-| 3.4 | D scan: time at m = 64000 (s) | 51 (25 to 100) | 51.93 | HIT | 2 % |
-| 3.5 | D heap: time at m = 64000 (s) | 0.5 (0.25 to 1) | 1.039 | MISS | 52 % |
-| 3.6 | D scan time / heap time at m = 250 | 1.2 (0.6 to 2) | 1.515 | HIT | 21 % |
+| 3.4 | D scan: time at m = 64000 (s) | 51 (25 to 100) | 29.84 | HIT | 71 % |
+| 3.5 | D heap: time at m = 64000 (s) | 0.5 (0.25 to 1) | 0.2649 | HIT | 89 % |
+| 3.6 | D scan time / heap time at m = 250 | 1.2 (0.6 to 2) | 1.168 | HIT | 3 % |
 | 3.7 | D maximum backlog / m at m = 64000 | 0.33 (0.2 to 0.45) | 0.3312 | HIT | 0 % |
 | 3.8 | D heap: ops/(m log2 m) at m = 64000 divided by the same at m = 250 | 1 (0.75 to 1.25) | 1.28 | MISS | 22 % |
 | 3.9 | D heap: peak memory per alarm at m = 8000 (bytes) | 250 (120 to 400) | 185 | HIT | 35 % |
 | 3.10 | D: largest difference of the mean wait of all alarms, urgency order against first-come-first-served | 0 (0 to 1e-06) | 0 | HIT | 0 % |
 | 3.11 | D tier L: mean wait of priority 9 and 10 alarms, first-come-first-served / urgency order | 80 (20 to 1000) | 428.8 | HIT | 81 % |
 | 4.1 | D scan at m = 256000: status (1 = DNF, 0 = finished) | 1 (1 to 1) | 1 | HIT | 0 % |
-| 4.2 | D scan at m = 256000: extrapolated time from the fit on m <= 64000 (s) | 670 (400 to 1100) | 1189 | MISS | 44 % |
+| 4.2 | D scan at m = 256000: extrapolated time from the fit on m <= 64000 (s) | 670 (400 to 1100) | 390.5 | MISS | 72 % |
 | 4.3 | D heap at m = 256000: time (s) | 2.5 (1.2 to 5) | 2.4 | HIT | 4 % |

diff --git a/results/fits-AD.md b/results/fits-AD.md
@@ -1,12 +1,12 @@
 | module | experiment | algorithm | quantity | model | sizes | slope or base | 95 % interval | R^2 | theory |
 |---|---|---|---|---|---|---|---|---|---|
-| A | A-scale-n | dp | time | log-log | 6 | 2.257 | +-0.361 | 0.9869 | n*W with W proportional to n: slope 2 |
+| A | A-scale-n | dp | time | log-log | 6 | 2.215 | +-0.284 | 0.9915 | n*W with W proportional to n: slope 2 |
 | A | A-scale-n | dp | operations | log-log | 6 | 2.076 | +-0.117 | 0.9984 | n*W with W proportional to n: slope 2 |
-| A | A-scale-n | greedy | time | log-log | 6 | 1.439 | +-0.339 | 0.9720 | n log n: slope slightly above 1 |
+| A | A-scale-n | greedy | time | log-log | 6 | 1.219 | +-0.284 | 0.9726 | n log n: slope slightly above 1 |
 | A | A-scale-n | greedy | operations | log-log | 6 | 1.150 | +-0.016 | 0.9999 | n log n: slope slightly above 1 |
-| A | A-scale-W | dp | time | log-log | 6 | 0.995 | +-0.037 | 0.9993 | n*W: slope 1 in W |
+| A | A-scale-W | dp | time | log-log | 6 | 0.858 | +-0.267 | 0.9523 | n*W: slope 1 in W |
 | A | A-scale-W | dp | operations | log-log | 6 | 1.005 | +-0.003 | 1.0000 | n*W: slope 1 in W |
-| A | A-scale-W | greedy | time | log-log | 6 | 0.080 | +-0.097 | 0.5671 | independent of W: slope 0 |
+| A | A-scale-W | greedy | time | log-log | 6 | -0.083 | +-0.426 | 0.0686 | independent of W: slope 0 |
 | A | A-scale-W | greedy | operations | log-log | 6 | 0.000 | +-0.000 | 1.0000 | independent of W: slope 0 |
 | A | A-small-n | brute | time | semi-log | 5 | 2.024 | 1.940 to 2.112 | 0.9989 | 2^n: base 2 per crate |
 | A | A-small-n | brute | operations | semi-log | 5 | 2.000 | 2.000 to 2.000 | 1.0000 | 2^n: base 2 per crate |
@@ -14,12 +14,12 @@
 | A | A-small-n | dp | operations | log-log | 5 | 2.063 | +-0.363 | 0.9909 | n*W (W about 4 n): slope 2 |
 | A | A-small-n | greedy | time | log-log | 5 | 1.628 | +-0.383 | 0.9839 | n log n |
 | A | A-small-n | greedy | operations | log-log | 5 | 1.657 | +-0.265 | 0.9925 | n log n |
-| D | D-scale-m | heap | time | log-log | 9 | 1.260 | +-0.106 | 0.9912 | m log m: slope slightly above 1 |
+| D | D-scale-m | heap | time | log-log | 9 | 1.124 | +-0.112 | 0.9878 | m log m: slope slightly above 1 |
 | D | D-scale-m | heap | operations | log-log | 9 | 1.164 | +-0.028 | 0.9993 | m log m: slope slightly above 1 |
-| D | D-scale-m | scan | time | log-log | 9 | 2.031 | +-0.156 | 0.9927 | m * backlog, backlog proportional to m: slope 2 |
+| D | D-scale-m | scan | time | log-log | 9 | 1.961 | +-0.054 | 0.9991 | m * backlog, backlog proportional to m: slope 2 |
 | D | D-scale-m | scan | operations | log-log | 9 | 1.992 | +-0.004 | 1.0000 | m * backlog, backlog proportional to m: slope 2 |
-| A | A-scale-n | dp | time against ops | log-log | 6 | 1.087 | +-0.162 | 0.9886 | time proportional to the counted operations: slope 1 |
-| A | A-scale-W | dp | time against ops | log-log | 6 | 0.990 | +-0.039 | 0.9992 | time proportional to the counted operations: slope 1 |
-| D | D-scale-m | scan | time against ops | log-log | 9 | 1.019 | +-0.077 | 0.9929 | time proportional to the counted operations: slope 1 |
-| D | D-scale-m | heap | time against ops | log-log | 9 | 1.079 | +-0.111 | 0.9869 | time proportional to the counted operations: slope 1 |
-| A | A-scale-n | greedy | time against ops | log-log | 6 | 1.250 | +-0.307 | 0.9696 | time proportional to the counted operations: slope 1 |
+| A | A-scale-n | dp | time against ops | log-log | 6 | 1.066 | +-0.143 | 0.9908 | time proportional to the counted operations: slope 1 |
+| A | A-scale-W | dp | time against ops | log-log | 6 | 0.854 | +-0.268 | 0.9514 | time proportional to the counted operations: slope 1 |
+| D | D-scale-m | scan | time against ops | log-log | 9 | 0.985 | +-0.025 | 0.9992 | time proportional to the counted operations: slope 1 |
+| D | D-scale-m | heap | time against ops | log-log | 9 | 0.966 | +-0.088 | 0.9897 | time proportional to the counted operations: slope 1 |
+| A | A-scale-n | greedy | time against ops | log-log | 6 | 1.059 | +-0.252 | 0.9715 | time proportional to the counted operations: slope 1 |
